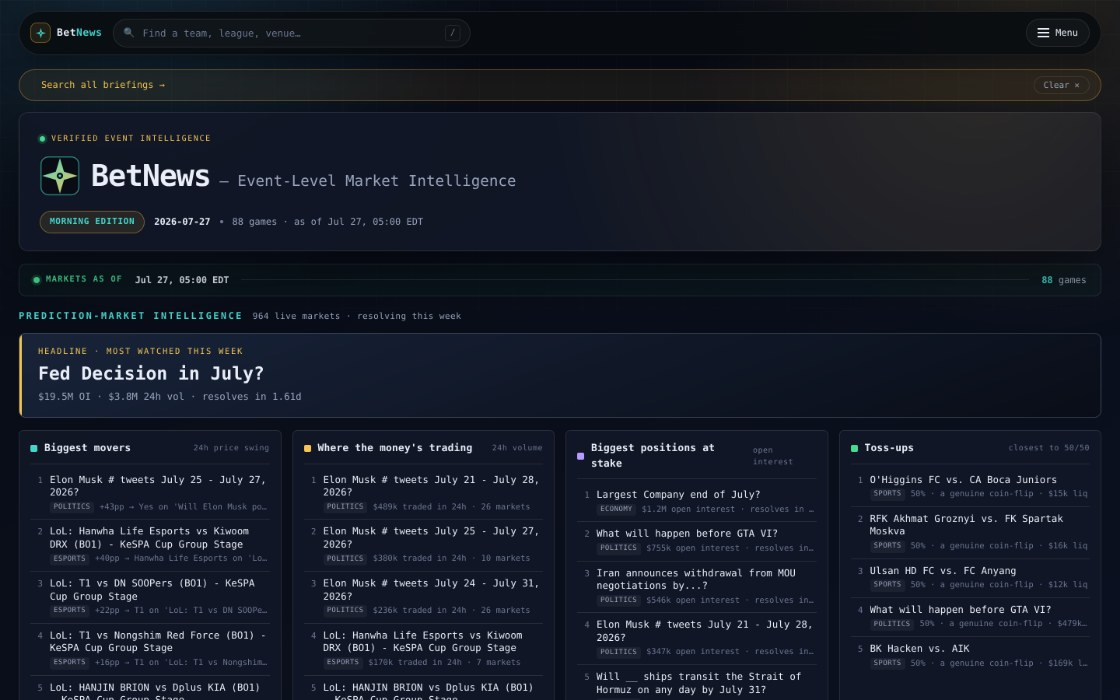
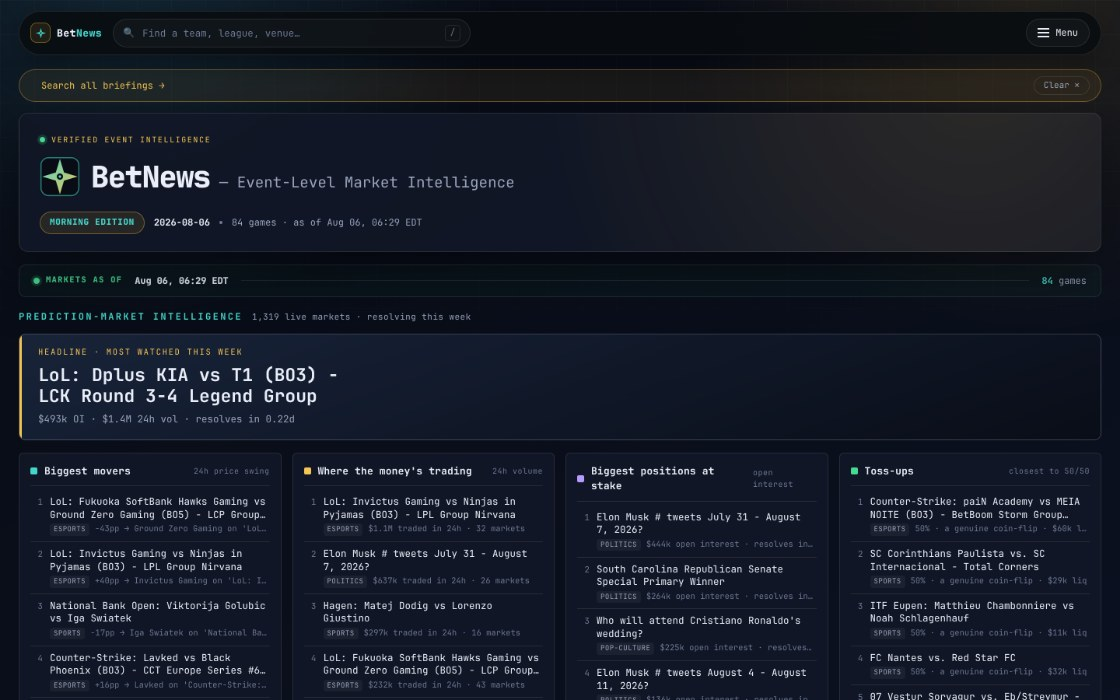
Add six new projects, refresh every snapshot, and move BoltNews to its subdomain
Three months of work had accumulated since the last pass. Found the new
repositories by querying the GitHub API for everything created since this
session began, rather than going by memory.

Six projects added, taking the directory from ten to sixteen:

  desk   bolt.ceo       the front door over all six pipelines — ask a plain
                        question, get a verdict, a technical read and a levels
                        ladder, with every figure computed before any prose
         HousingTrends  listing-free US housing reports from official research
                        files only; private, so a non-clickable card

  floor  AgentSwarm     describe an app, a swarm of cheap agents builds it in
                        parallel and ships it in one tap
         TriDelPhi      a static Agents Rule of Two analyzer that finds the CI
                        job where a stranger's comment becomes RCE
         Hatch          the fleet's always-on mind; private hardware, so a
                        non-clickable card
         Hatch for iOS  mission control for Hatch from a phone; no public build

bolt.ceo takes the desk's lead card because it is the front door to the six
pipelines rather than a seventh peer.

Three repositories from the same period are deliberately left out as
infrastructure, not projects: engine-infra, agentswarm-e2e-test, and
nima-infra-vault — the last an encrypted secret vault that should not be
[…]

diff --git a/index.html b/index.html
@@ -357,6 +357,7 @@ body[data-view="floor"] .dot {
 .tape-item .sym  { color: var(--text-faint); letter-spacing: 0.1em; }
 .tape-item .px   { color: var(--text); }
 .tape-item .up   { color: var(--green); }
+.tape-item .flat { color: var(--text-faint); }
 .tape-item .down { color: var(--rose); }
 @keyframes tape { to { transform: translateX(-50%); } }
 
@@ -475,6 +476,16 @@ body[data-view="floor"] .dot {
   .card:hover .card-cta .arrow { transform: translateX(3px); }
 }
 .card:focus-within { border-color: color-mix(in srgb, var(--accent) 55%, var(--line)); }
+
+/* a desk card with nothing to open yet — same hatch as the floor's closed plaque */
+.card.is-quiet {
+  background:
+    repeating-linear-gradient(-45deg, transparent 0 11px, rgba(255,255,255,0.018) 11px 22px),
+    var(--ink-card);
+}
+.card.is-quiet .card-body { padding-block: clamp(1.5rem, 3.4vw, 2.5rem); }
+.card.is-quiet .card-kicker,
+.card.is-quiet .card-cta { color: var(--text-faint); }
 
 /* ---------- floor: plaques ---------- */
 
@@ -749,13 +760,13 @@ body[data-view="floor"] .dot {
   </div>
   <div class="masthead-foot">
     <p class="masthead-lede">
-      Ten systems built end to end, in two rooms. The <strong>desk</strong> runs six market
-      intelligence pipelines that publish on a schedule. The <strong>floor</strong> holds four
-      creative and agentic products that run all the time.
+      Sixteen systems built end to end, in two rooms. The <strong>desk</strong> runs eight market
+      intelligence pipelines that publish on a schedule, behind one question box. The
+      <strong>floor</strong> holds eight creative and agentic products that run all the time.
     </p>
     <ul class="masthead-stats">
-      <li><b>10</b> projects</li>
-      <li><b>9</b> live</li>
+      <li><b>16</b> projects</li>
+      <li><b>12</b> live</li>
       <li><b>2</b> rooms</li>
     </ul>
   </div>
@@ -763,41 +774,41 @@ body[data-view="floor"] .dot {
 
 <nav class="tabs" role="tablist" aria-label="Project rooms">
   <button class="tab" id="tab-desk" role="tab" aria-selected="true" aria-controls="panel-desk" type="button">
-    <span class="tab-mark"></span> Markets &amp; Trading <span class="tab-count">6</span>
+    <span class="tab-mark"></span> Markets &amp; Trading <span class="tab-count">8</span>
   </button>
   <button class="tab" id="tab-floor" role="tab" aria-selected="false" aria-controls="panel-floor" tabindex="-1" type="button">
-    <span class="tab-mark"></span> Creative &amp; Agentic <span class="tab-count">4</span>
+    <span class="tab-mark"></span> Creative &amp; Agentic <span class="tab-count">8</span>
   </button>
 </nav>
 
 <!-- Real prices captured from the BoltNews desk when this page was built.
      Presented as a capture, never as a live feed. -->
 <section class="tape" id="tape" aria-label="Market tape captured from the BoltNews desk">
-  <p class="tape-head">Tape · captured 27 Jul 2026, 13:44 ET · from the BoltNews desk · not live</p>
+  <p class="tape-head">Tape · captured 19 Oct 2026, 18:24 ET · from the BoltNews post-market edition · not live</p>
   <div class="tape-track">
     <div class="tape-group">
-      <span class="tape-item"><span class="sym">ES1</span><span class="px">7,428.75</span><span class="down">−0.25%</span></span>
-      <span class="tape-item"><span class="sym">NQ1</span><span class="px">28,053.25</span><span class="down">−0.81%</span></span>
-      <span class="tape-item"><span class="sym">RTY1</span><span class="px">2,950.10</span><span class="up">+0.30%</span></span>
-      <span class="tape-item"><span class="sym">TU1</span><span class="px">102.773</span><span class="up">+0.03%</span></span>
-      <span class="tape-item"><span class="sym">TY1</span><span class="px">108.562</span><span class="up">+0.22%</span></span>
-      <span class="tape-item"><span class="sym">US1</span><span class="px">110.250</span><span class="up">+0.48%</span></span>
-      <span class="tape-item"><span class="sym">CL1</span><span class="px">82.59</span><span class="down">−7.52%</span></span>
-      <span class="tape-item"><span class="sym">NG1</span><span class="px">2.78</span><span class="down">−3.60%</span></span>
-      <span class="tape-item"><span class="sym">GC1</span><span class="px">4,076.40</span><span class="up">+0.14%</span></span>
-      <span class="tape-item"><span class="sym">VIX</span><span class="px">19.56</span><span class="up">+5.27%</span></span>
+      <span class="tape-item"><span class="sym">ES1</span><span class="px">7,743.25</span><span class="up">+0.11%</span></span>
+      <span class="tape-item"><span class="sym">NQ1</span><span class="px">29,765.75</span><span class="up">+0.15%</span></span>
+      <span class="tape-item"><span class="sym">RTY1</span><span class="px">2,745.10</span><span class="up">+0.10%</span></span>
+      <span class="tape-item"><span class="sym">TU1</span><span class="px">4.75%</span><span class="flat">+0.0bp</span></span>
+      <span class="tape-item"><span class="sym">TY1</span><span class="px">5.10%</span><span class="up">+0.9bp</span></span>
+      <span class="tape-item"><span class="sym">US1</span><span class="px">5.44%</span><span class="up">+0.7bp</span></span>
+      <span class="tape-item"><span class="sym">CL1</span><span class="px">98.27</span><span class="down">−0.27%</span></span>
+      <span class="tape-item"><span class="sym">NG1</span><span class="px">3.04</span><span class="down">−0.75%</span></span>
+      <span class="tape-item"><span class="sym">GC1</span><span class="px">4,160.70</span><span class="up">+0.01%</span></span>
+      <span class="tape-item"><span class="sym">VIX</span><span class="px">18.44</span><span class="down">−7.75%</span></span>
     </div>
     <div class="tape-group" aria-hidden="true">
-      <span class="tape-item"><span class="sym">ES1</span><span class="px">7,428.75</span><span class="down">−0.25%</span></span>
-      <span class="tape-item"><span class="sym">NQ1</span><span class="px">28,053.25</span><span class="down">−0.81%</span></span>
-      <span class="tape-item"><span class="sym">RTY1</span><span class="px">2,950.10</span><span class="up">+0.30%</span></span>
-      <span class="tape-item"><span class="sym">TU1</span><span class="px">102.773</span><span class="up">+0.03%</span></span>
-      <span class="tape-item"><span class="sym">TY1</span><span class="px">108.562</span><span class="up">+0.22%</span></span>
-      <span class="tape-item"><span class="sym">US1</span><span class="px">110.250</span><span class="up">+0.48%</span></span>
-      <span class="tape-item"><span class="sym">CL1</span><span class="px">82.59</span><span class="down">−7.52%</span></span>
-      <span class="tape-item"><span class="sym">NG1</span><span class="px">2.78</span><span class="down">−3.60%</span></span>
-      <span class="tape-item"><span class="sym">GC1</span><span class="px">4,076.40</span><span class="up">+0.14%</span></span>
-      <span class="tape-item"><span class="sym">VIX</span><span class="px">19.56</span><span class="up">+5.27%</span></span>
+      <span class="tape-item"><span class="sym">ES1</span><span class="px">7,743.25</span><span class="up">+0.11%</span></span>
+      <span class="tape-item"><span class="sym">NQ1</span><span class="px">29,765.75</span><span class="up">+0.15%</span></span>
+      <span class="tape-item"><span class="sym">RTY1</span><span class="px">2,745.10</span><span class="up">+0.10%</span></span>
+      <span class="tape-item"><span class="sym">TU1</span><span class="px">4.75%</span><span class="flat">+0.0bp</span></span>
+      <span class="tape-item"><span class="sym">TY1</span><span class="px">5.10%</span><span class="up">+0.9bp</span></span>
+      <span class="tape-item"><span class="sym">US1</span><span class="px">5.44%</span><span class="up">+0.7bp</span></span>
+      <span class="tape-item"><span class="sym">CL1</span><span class="px">98.27</span><span class="down">−0.27%</span></span>
+      <span class="tape-item"><span class="sym">NG1</span><span class="px">3.04</span><span class="down">−0.75%</span></span>
+      <span class="tape-item"><span class="sym">GC1</span><span class="px">4,160.70</span><span class="up">+0.01%</span></span>
+      <span class="tape-item"><span class="sym">VIX</span><span class="px">18.44</span><span class="down">−7.75%</span></span>
     </div>
   </div>
 </section>
@@ -807,11 +818,12 @@ body[data-view="floor"] .dot {
   <!-- ===================== THE DESK ===================== -->
   <section class="panel wrap" id="panel-desk" role="tabpanel" aria-labelledby="tab-desk" tabindex="0">
     <div class="panel-head reveal">
-      <div class="rule">six systems · published on a schedule</div>
+      <div class="rule">eight systems · published on a schedule</div>
       <h2 class="panel-title">Markets &amp; Trading</h2>
       <p class="panel-desc">
         Research pipelines that run themselves. Each one ingests messy public data on a cron
-        and ships a finished, readable briefing — no dashboard-wrangling required.
+        and ships a finished, readable briefing — and <strong>bolt.ceo</strong> reads all six
+        together, so you can ask the desks a question instead of opening six dashboards.
       </p>
     </div>
 
@@ -819,13 +831,33 @@ body[data-view="floor"] .dot {
 
       <article class="card is-wide reveal">
         <div class="card-media">
+          <img src="assets/shots/bolt-suite.jpg" width="1120" height="700" decoding="async"
+               alt="The bolt.ceo landing page: the headline Ask the desks anything above a question box and suggested prompts." />
+        </div>
+        <div class="card-body">
+          <p class="card-kicker">The front door · all six desks, one question box</p>
+          <h3 class="card-name">
+            <a class="card-link" href="https://bolt.ceo" target="_blank" rel="noopener">bolt.ceo</a>
+          </h3>
+          <p class="card-desc">
+            A market-intelligence LLM sitting on top of the six pipelines below. Ask a plain
+            question and it answers with a verdict, a technical read and a levels ladder — every
+            figure computed before a word is written, so a fabricated citation fails hard.
+          </p>
+          <ul class="card-tech"><li>Cloudflare Worker</li><li>6 pipelines</li><li>Zero runtime deps</li><li>246 offline tests</li></ul>
+          <p class="card-cta"><i class="dot"></i> Ask the desks <span class="arrow">→</span></p>
+        </div>
+      </article>
+
+      <article class="card reveal">
+        <div class="card-media">
           <img src="assets/shots/boltnews.jpg" width="1120" height="700" decoding="async"
-               alt="The BoltNews dashboard: a mid-day edition with equity futures, rates, commodities and volatility panels above a written market summary." />
+               alt="The BoltNews dashboard: a post-market edition with equity futures, rates, commodities and volatility panels above a written market summary." />
         </div>
         <div class="card-body">
           <p class="card-kicker">Cross-asset · three editions daily</p>
           <h3 class="card-name">
-            <a class="card-link" href="https://girnarholdings.github.io/BoltNews/" target="_blank" rel="noopener">BoltNews</a>
+            <a class="card-link" href="https://news.bolt.ceo/" target="_blank" rel="noopener">BoltNews</a>
           </h3>
           <p class="card-desc">
             An automated news desk for a fundamental long/short PM. Multi-agent discovery lanes
@@ -915,7 +947,7 @@ body[data-view="floor"] .dot {
         </div>
       </article>
 
-      <article class="card is-wide reveal">
+      <article class="card reveal">
         <div class="card-media">
           <img src="assets/shots/betnews.jpg" width="1120" height="700" loading="lazy" decoding="async"
                alt="The BetNews briefing: an event-level market intelligence header over prediction-market panels for biggest movers and largest positions." />
@@ -935,6 +967,20 @@ body[data-view="floor"] .dot {
         </div>
       </article>
 
+      <article class="card is-wide is-quiet reveal">
+        <div class="card-body">
+          <p class="card-kicker">Housing research · no public deployment yet</p>
+          <h3 class="card-name">HousingTrends</h3>
+          <p class="card-desc">
+            Listing-free US housing reports for buyers, built only from official research files
+            rather than broker inventory — so a ZIP code report says what the public record
+            supports and nothing more. Still a private pipeline with no published site.
+          </p>
+          <ul class="card-tech"><li>Python</li><li>Official research files</li></ul>
+          <p class="card-cta"><i class="dot dot--off"></i> Private — nothing to open</p>
+        </div>
+      </article>
+
     </div>
   </section>
 
@@ -946,7 +992,7 @@ body[data-view="floor"] .dot {
            alt="The Girnar Holdings house mark: a blue and gold medallion showing Mount Girnar beneath an Om sunburst." />
 
       <h2 class="floor-title">Creative &amp; Agentic</h2>
-      <p class="floor-sub">Four rooms under the house mark — things people use, rather than things that publish.</p>
+      <p class="floor-sub">Eight rooms under the house mark — things people use, rather than things that publish.</p>
       <p class="floor-flourish">Shubh · Labh</p>
     </div>
 
@@ -968,6 +1014,44 @@ body[data-view="floor"] .dot {
           </p>
           <ul class="plaque-tech"><li>React</li><li>Vite</li><li>Client-side only</li></ul>
           <span class="plaque-enter">Take a seat <span class="arrow">→</span></span>
+        </div>
+      </a>
+
+      <a class="plaque reveal" href="https://girnarholdings.github.io/AgentSwarm/" target="_blank" rel="noopener">
+        <div class="plaque-media">
+          <img src="assets/shots/agentswarm.jpg" width="1120" height="700" loading="lazy" decoding="async"
+               alt="The AgentSwarm landing page: the headline Describe it, watch it build itself, above a worked example of a swarm building a game." />
+        </div>
+        <div class="plaque-body">
+          <p class="plaque-room">The Workshop · plain English in, working app out</p>
+          <h3 class="plaque-name">AgentSwarm</h3>
+          <p class="plaque-tag">Describe it. Watch it build itself.</p>
+          <p class="plaque-desc">
+            Type an idea and a swarm of cheap agents builds it in parallel — every file its own
+            agent, priced before anything runs, online in one tap. Easy parts route to free
+            inference pools; only the hard ones reach the paid model.
+          </p>
+          <ul class="plaque-tech"><li>Cloudflare Workers</li><li>Multi-pool routing</li><li>223 tests</li></ul>
+          <span class="plaque-enter">Build something <span class="arrow">→</span></span>
+        </div>
+      </a>
+
+      <a class="plaque reveal" href="https://girnarholdings.github.io/TriDelPhi/" target="_blank" rel="noopener">
+        <div class="plaque-media">
+          <img src="assets/shots/tridelphi.jpg" width="1120" height="700" loading="lazy" decoding="async"
+               alt="The TriDelPhi site: the headline Check your code, choose your route, beside Manual Setup Studio and Cloud Scan Studio panels." />
+        </div>
+        <div class="plaque-body">
+          <p class="plaque-room">The Gatehouse · CI supply-chain security</p>
+          <h3 class="plaque-name">TriDelPhi</h3>
+          <p class="plaque-tag">Before an attacker finds it</p>
+          <p class="plaque-desc">
+            A static Agents Rule of Two analyzer for GitHub Actions: it finds the CI job where a
+            stranger's comment turns into remote code execution. Runs fully offline, makes zero
+            network calls by default, and never certifies anything as safe.
+          </p>
+          <ul class="plaque-tech"><li>Python 3.11–3.13</li><li>Offline by default</li><li>Apache-2.0</li></ul>
+          <span class="plaque-enter">Check your code <span class="arrow">→</span></span>
         </div>
       </a>
 
@@ -1008,6 +1092,36 @@ body[data-view="floor"] .dot {
         </div>
       </a>
 
+      <div class="plaque is-closed reveal">
+        <div class="plaque-body">
+          <p class="plaque-room">The Hatchery · the fleet's always-on mind</p>
+          <h3 class="plaque-name">Hatch</h3>
+          <p class="plaque-tag">It dreams, learns, and versions itself</p>
+          <p class="plaque-desc">
+            A local orchestrator running a three-machine fleet: four coding harnesses, a
+            mixture-of-experts router, shared memory with nightly hygiene, a skill flywheel and a
+            machine-to-machine bus. It runs on private hardware, so there is nothing to open.
+          </p>
+          <ul class="plaque-tech"><li>Python</li><li>MoE routing</li><li>Fleet M2M bus</li></ul>
+          <p class="plaque-closed-note"><i class="dot dot--off"></i> Private — runs on the fleet</p>
+        </div>
+      </div>
+
+      <div class="plaque is-closed reveal">
+        <div class="plaque-body">
+          <p class="plaque-room">The Bridge · fleet mission control</p>
+          <h3 class="plaque-name">Hatch for iOS</h3>
+          <p class="plaque-tag">The fleet in your pocket</p>
+          <p class="plaque-desc">
+            The cockpit for Hatch — dreams, feed and routines, streaming chat, approvals and
+            dispatch, from a phone. SwiftUI with zero dependencies and VPN optional. It ships as
+            an app against private infrastructure rather than a web page.
+          </p>
+          <ul class="plaque-tech"><li>SwiftUI</li><li>Zero deps</li><li>iOS</li></ul>
+          <p class="plaque-closed-note"><i class="dot dot--off"></i> Private — no public build</p>
+        </div>
+      </div>
+
       <div class="plaque is-wide is-closed reveal">
         <div class="plaque-body">
           <p class="plaque-room">The Back Office · private tooling</p>
@@ -1031,7 +1145,7 @@ body[data-view="floor"] .dot {
 
 <footer class="foot wrap">
   <span>Girnar Holdings · project map</span>
-  <span>Screenshots captured 27–29 Jul 2026</span>
+  <span>Screenshots captured 20 Oct 2026</span>
 </footer>
 
 <script>

diff --git a/README.md b/README.md
@@ -9,8 +9,8 @@ its own visual world:
 
 | Tab | Room | Contents |
 |---|---|---|
-| **Markets & Trading** | *the desk* — night trading terminal | Six systems that publish on a schedule |
-| **Creative & Agentic** | *the floor* — the house itself, in lapis and gold | Four products that run all the time |
+| **Markets & Trading** | *the desk* — night trading terminal | Eight systems that publish on a schedule |
+| **Creative & Agentic** | *the floor* — the house itself, in lapis and gold | Eight products that run all the time |
 
 Tabs deep-link (`#desk`, `#floor`), support arrow-key navigation, and use proper
 `tablist`/`tab`/`tabpanel` roles. The tables below are the underlying source of truth, and
@@ -24,13 +24,15 @@ and both rooms are night rooms. There is no light variant, by choice rather than
 **The desk** (default tab) keeps the trading-terminal treatment:
 
 - **Palette lifted from the products, not invented.** Amber `#F5B93B` is the accent BoltNews,
-  BoltFactors and FitForge already use. It appears as a hairline across the top of every
-  screenshot.
+  BoltFactors and bolt.ceo already use. It appears as a hairline across the top of every
+  screenshot. FitForge has since rebranded to forge-copper and no longer matches, which is why
+  that claim now names the desks rather than the whole portfolio.
 - **Monospace as the display face** — the honest register for a room where every project is a
   terminal — against a system grotesque for running text.
-- **The tape** shows real prices captured from the BoltNews desk at 2026-07-27 13:44 ET. It is
-  explicitly labelled as a capture rather than a live feed, is not wired to any data source,
-  and will not update. It belongs to the desk and is hidden on the floor.
+- **The tape** shows real prices read off the BoltNews post-market edition of 2026-10-19,
+  18:24 ET. It is explicitly labelled as a capture rather than a live feed, is not wired to any
+  data source, and will not update. It belongs to the desk and is hidden on the floor. Refresh
+  it by rebuilding BoltNews and re-reading its market-table values.
 
 **The floor** switches to antique gold on lapis:
 
@@ -107,6 +109,7 @@ blocks `*.github.io` and cannot reach the live sites directly:
 | `gh-pages` branch (deployed output committed) | BoltNews, BoltFactors, Earnings Screener, BetNews |
 | Static site committed on `main` | Equity Screener (`docs/`), VibeNYC (`site/`), Grand Atlantic (`gateway/`) |
 | Built from source locally (`npm ci`, Next.js static export) | FitForge |
+| Static landing committed on `main`, served over HTTP to capture | bolt.ceo (`public/`), AgentSwarm (`gateway-worker/public/`), TriDelPhi (`site/`) |
 | Generated from source locally (`python -c "from src import builder; builder.build_dashboard()"`, the same command its deploy workflow runs) | YouTube Briefings |
 
 Caveats worth knowing before regenerating them:
@@ -121,6 +124,11 @@ Caveats worth knowing before regenerating them:
   viewport to 860 px pushes the video grid below the fold and does this naturally.
 - Grand Atlantic opens on a splash screen; its screenshot is taken after clicking through to
   the training floor, which is the view worth showing.
+- bolt.ceo, AgentSwarm and TriDelPhi reference assets by absolute path (`/styles.css`), which
+  resolves to the filesystem root under `file://` and renders an unstyled page. Serve the
+  landing directory over HTTP and capture from `127.0.0.1` instead. bolt.ceo additionally
+  renders a `Launchpad unavailable (404)` line when captured without its Worker API, so its
+  card is framed above that line rather than by editing the page.
 - The screenshots are point-in-time. Dashboards that publish daily will have moved on — the
   footer records the capture date so the page never implies the numbers are current.
 - **CRE AI Agent is deliberately not screenshotted.** It is a private tool operating on live
@@ -149,12 +157,14 @@ finished, readable briefing.
 
 | # | Project | Live site | Tech | Description |
 |---|---|---|---|---|
-| 1 | **BoltNews** | [girnarholdings.github.io/BoltNews](https://girnarholdings.github.io/BoltNews/) | Python 3.12, multi-agent LLM pipeline, cron, GitHub Pages | Automated news desk for a fundamental long/short PM. Multi-agent discovery lanes sweep equities, rates, credit, FX, commodities, volatility and crypto, then write the pre-market, mid-day and weekend briefings. |
-| 2 | **BoltFactors** | [girnarholdings.github.io/BoltFactors](https://girnarholdings.github.io/BoltFactors/) | Python, DuckDB/Polygon warehouse, cron (5× daily) | Quantitative factor briefings generated off the market-data warehouse, tracking regime shifts across value, momentum, quality and volatility. |
-| 3 | **YouTube Briefings** | [girnarholdings.github.io/yt-briefing](https://girnarholdings.github.io/yt-briefing/) | Python, GitHub Actions → Pages, static HTML | Turns channel and video activity across a tracked list of creators into a structured, digestible briefing instead of an endless subscriptions feed. |
-| 4 | **Equity Screener** | [girnarholdings.github.io/equity-screener](https://girnarholdings.github.io/equity-screener/) | Python, DuckDB/Polygon warehouse, pandas | Ranks low-priced, large-cap VTI names through seven deterministic scoring sleeves (RSI inflection, value, momentum, squeeze), plus a wave-stage classifier and a factor-momentum-tilted EV master score. |
-| 5 | **Earnings Screener** | [girnarholdings.github.io/AI-Assisted-Earnings-Screener](https://girnarholdings.github.io/AI-Assisted-Earnings-Screener/) | Python, SEC EDGAR, DoltHub, DuckDB, LLM commentary | Cross-references the holdings universe against a SEC EDGAR/DoltHub earnings calendar to find the best setups heading into a print, reusing the screener's scoring engine and adding written commentary per name. |
-| 6 | **BetNews** | [girnarholdings.github.io/BetNews](https://girnarholdings.github.io/BetNews/) | Python 3.11+ (stdlib only), Polymarket Gamma API, RSS, vanilla JS search | The same briefing discipline pointed at betting markets: consensus odds, positive-EV screens and underdog trends aggregated across Polymarket, Kalshi, DraftKings, FanDuel and 60+ other books and sources. |
+| 1 | **bolt.ceo** | [bolt.ceo](https://bolt.ceo) | Cloudflare Worker, zero runtime deps, 246 offline tests | A market-intelligence LLM over the six pipelines below. A plain question returns a verdict, a technical read and a levels ladder; every figure is computed before any prose is generated, so a fabricated citation fails hard. Routing is deterministic regex across eleven analyst profiles, never a model call. |
+| 2 | **BoltNews** | [news.bolt.ceo](https://news.bolt.ceo/) | Python 3.12, multi-agent LLM pipeline, cron, GitHub Pages | Automated news desk for a fundamental long/short PM. Multi-agent discovery lanes sweep equities, rates, credit, FX, commodities, volatility and crypto, then write the pre-market, mid-day and weekend briefings. |
+| 3 | **BoltFactors** | [girnarholdings.github.io/BoltFactors](https://girnarholdings.github.io/BoltFactors/) | Python, DuckDB/Polygon warehouse, cron (5× daily) | Quantitative factor briefings generated off the market-data warehouse, tracking regime shifts across value, momentum, quality and volatility. |
+| 4 | **YouTube Briefings** | [girnarholdings.github.io/yt-briefing](https://girnarholdings.github.io/yt-briefing/) | Python, GitHub Actions → Pages, static HTML | Turns channel and video activity across a tracked list of creators into a structured, digestible briefing instead of an endless subscriptions feed. |
+| 5 | **Equity Screener** | [girnarholdings.github.io/equity-screener](https://girnarholdings.github.io/equity-screener/) | Python, DuckDB/Polygon warehouse, pandas | Ranks low-priced, large-cap VTI names through seven deterministic scoring sleeves (RSI inflection, value, momentum, squeeze), plus a wave-stage classifier and a factor-momentum-tilted EV master score. |
+| 6 | **Earnings Screener** | [girnarholdings.github.io/AI-Assisted-Earnings-Screener](https://girnarholdings.github.io/AI-Assisted-Earnings-Screener/) | Python, SEC EDGAR, DoltHub, DuckDB, LLM commentary | Cross-references the holdings universe against a SEC EDGAR/DoltHub earnings calendar to find the best setups heading into a print, reusing the screener's scoring engine and adding written commentary per name. |
+| 7 | **BetNews** | [girnarholdings.github.io/BetNews](https://girnarholdings.github.io/BetNews/) | Python 3.11+ (stdlib only), Polymarket Gamma API, RSS, vanilla JS search | The same briefing discipline pointed at betting markets: consensus odds, positive-EV screens and underdog trends aggregated across Polymarket, Kalshi, DraftKings, FanDuel and 60+ other books and sources. |
+| 8 | **HousingTrends** | — *(private, no public deployment)* | Python, official research files only | Listing-free US housing reports for buyers, built only from official research files rather than broker inventory, so a ZIP-code report says what the public record supports and nothing more. |
 
 ## 🎭 Creative & Agentic — *the floor*
 
@@ -163,11 +173,22 @@ Things people use rather than things that publish — each shapes itself around 
 | # | Project | Live site | Tech | Description |
 |---|---|---|---|---|
 | 1 | **Grand Atlantic** | [girnarholdings.github.io/GrandAtlanticLive](https://girnarholdings.github.io/GrandAtlanticLive/) | React, Vite, vanilla JS, client-side only | A casino floor built to teach rather than take: Blackjack, Roulette, Baccarat, Craps and Poker trainers behind one front desk, sharing a single bankroll and walk-away goal across every table. |
-| 2 | **FitForge** | [girnarholdings.github.io/FitForge](https://girnarholdings.github.io/FitForge/) | Next.js 15, SwiftUI (iOS 17+), Supabase, TypeScript shared package | Learns the equipment you have, the lifts you prefer and the movements you avoid, then substitutes equivalents by muscle group and movement pattern instead of handing out a generic plan. Macro targets follow Mifflin–St Jeor. |
-| 3 | **VibeNYC** | [girnarholdings.github.io/VibeNYC](https://girnarholdings.github.io/VibeNYC/) | Python, GitHub Actions → Pages, static HTML | A living read on what's happening across New York tonight, built from official facts, local expertise and community signals — with every claim traceable back to its source. |
-| 4 | **CRE AI Agent** | — *(private, no public deployment)* | Python, Selenium/Firefox CDP scraping, Streamlit | Scrapes commercial listings past Akamai bot protection via Firefox remote-debugging, then serves the deal set through an interactive underwriting dashboard for per-deal deep dives. |
+| 2 | **AgentSwarm** | [girnarholdings.github.io/AgentSwarm](https://girnarholdings.github.io/AgentSwarm/) | Cloudflare Workers, multi-pool inference routing, 223 tests | Describe an app in plain English and a swarm of cheap agents builds it in parallel — every file its own agent, priced before anything runs, online in one tap. Trivial parts fan out across free inference pools; only hard parts reach the paid model. |
+| 3 | **TriDelPhi** | [girnarholdings.github.io/TriDelPhi](https://girnarholdings.github.io/TriDelPhi/) | Python 3.11–3.13, Apache-2.0, zero default network calls | A static *Agents Rule of Two* analyzer for GitHub Actions: it finds the CI job where an attacker's comment becomes remote code execution. Runs fully offline by default and never certifies a project as safe. |
+| 4 | **FitForge** | [girnarholdings.github.io/FitForge](https://girnarholdings.github.io/FitForge/) | Next.js 15, SwiftUI (iOS 17+), Supabase, TypeScript shared package | Learns the equipment you have, the lifts you prefer and the movements you avoid, then substitutes equivalents by muscle group and movement pattern instead of handing out a generic plan. Macro targets follow Mifflin–St Jeor. |
+| 5 | **VibeNYC** | [girnarholdings.github.io/VibeNYC](https://girnarholdings.github.io/VibeNYC/) | Python, GitHub Actions → Pages, static HTML | A living read on what's happening across New York tonight, built from official facts, local expertise and community signals — with every claim traceable back to its source. |
+| 6 | **Hatch** | — *(private, runs on the fleet)* | Python, MoE routing, shared memory, fleet M2M bus | A local orchestrator running a three-machine fleet: four coding harnesses, a mixture-of-experts router, shared memory with nightly hygiene, a skill flywheel and a machine-to-machine bus. |
+| 7 | **Hatch for iOS** | — *(private, no public build)* | SwiftUI, zero dependencies, VPN optional | Mission control for Hatch from a phone — cockpit (dreams, feed, routines), streaming chat, approvals and dispatch. |
+| 8 | **CRE AI Agent** | — *(private, no public deployment)* | Python, Selenium/Firefox CDP scraping, Streamlit | Scrapes commercial listings past Akamai bot protection via Firefox remote-debugging, then serves the deal set through an interactive underwriting dashboard for per-deal deep dives. |
 
 ### Not listed here
+
+Three repositories created in this period are deliberately absent, because they are
+infrastructure rather than projects: **engine-infra** (machine provisioning and contract
+tests), **nima-infra-vault** (an off-site encrypted secret vault — ciphertext only, and
+nothing that should be advertised), and **agentswarm-e2e-test** (a throwaway artifact
+AgentSwarm built to prove itself).
+
 
 The five individual casino trainers (Blackjack, Poker, Roulette, Craps, Baccarat) are no
 longer separate cards — **Grand Atlantic** is the front door to all five, and listing them
